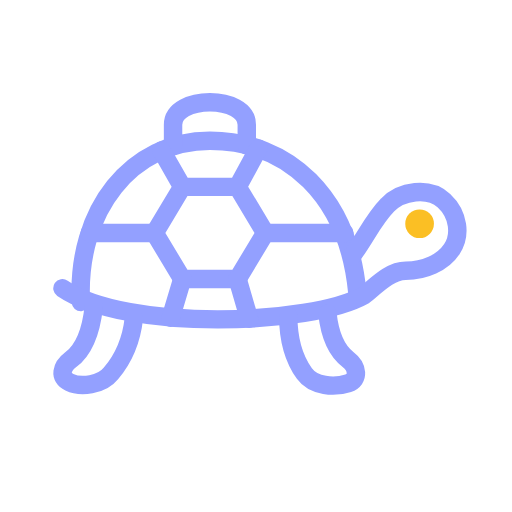
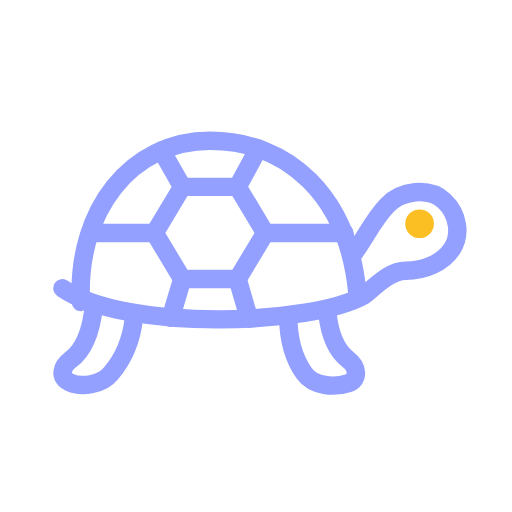
Remove the handle from the top of Kit's shell
The tiny master draws the legs in its place, so Kit still reads as a turtle at 16 px.

Changed region(s): [[0.3125, 0.1562, 0.5, 0.2812]]

diff --git a/scripts/brand/kit.ts b/scripts/brand/kit.ts
@@ -5,7 +5,6 @@
 export const PARTS = {
   dome: "M 12 60 C 11 40 23 25 40 25 C 57 25 70 37 72 58",
   body: "M 70.8 50 C 73.5 46.5 75.5 42 78.5 39 C 81.5 35.8 87.5 35 90.8 38 C 94 41 94.5 45.5 92.5 48.5 C 90.5 51.5 86.5 53.2 82.5 53.2 C 79 53.2 76 56.5 73.5 58.5 C 62 65 22 66.5 8 57",
-  grip: "M 32 26.1 L 32 21.5 C 32 15 48 15 48 21.5 L 48 26",
   plates: "M 29.5 27.1 L 34 35 L 46 35 L 50.5 26.7 M 34 35 L 28 45 L 34 55 L 46 55 L 52 45 L 46 35",
   seams: "M 28 45 L 13.9 45 M 52 45 L 69.2 45 M 34 55 L 31.5 63.4 M 46 55 L 48.5 63.6",
   frontLeg: "M 57 63 C 57 68 58 72 60.5 75.5 C 62.5 78.3 67 78.6 70 77.6 C 72.5 76.8 72 74 70 72.5 C 67.5 70.6 66 67 65.5 62.5",
@@ -24,8 +23,8 @@ const ALL = Object.keys(PARTS) as Part[];
  * is Kit's size in its box: on the tile for the icons, alone for the logo.
  */
 export const MASTERS = {
-  tiny: { stroke: 8.5, eye: 0, scale: 1, parts: ["dome", "body", "grip"] as Part[] },
-  small: { stroke: 5.2, eye: 2.8, scale: 0.88, parts: ["dome", "body", "grip", "frontLeg", "backLeg"] as Part[] },
+  tiny: { stroke: 8.5, eye: 0, scale: 1, parts: ["dome", "body", "frontLeg", "backLeg"] as Part[] },
+  small: { stroke: 5.2, eye: 2.8, scale: 0.88, parts: ["dome", "body", "frontLeg", "backLeg"] as Part[] },
   medium: { stroke: 4.4, eye: 2.6, scale: 0.8, parts: ALL },
   large: { stroke: 3.6, eye: 2.8, scale: 0.9, parts: ALL },
 } as const;

diff --git a/docs/brand/README.md b/docs/brand/README.md
@@ -33,11 +33,10 @@ what it learns, which is how Toolbox teaches.
   used a turtle to teach children math and programming. In _Mindstorms_ (1980)
   he called it an "object-to-think-with."
 
-The drawing has seven parts, each one round-capped stroke, and an eye:
+The drawing has six parts, each one round-capped stroke, and an eye:
 
 - **The dome** and **the body.** The body is one line from the neck, around
   the head, under the shell, and out to the tail.
-- **The grip**, the toolbox handle on top of the shell.
 - **The plates.** The center plate is a hexagon, the shape of a hex nut.
 - **The seams** from the plates to the rim, and **the two legs**, mid-stride.
 - **The eye** is amber, close to the orange eye of a male eastern box turtle.
@@ -64,10 +63,10 @@ person sees.
 
 | Master   | Seen at              | Parts                       | Stroke | Eye  |
 | -------- | -------------------- | --------------------------- | ------ | ---- |
-| `tiny`   | 16 px on a 1x screen | dome, body, grip            | 8.5    | none |
-| `small`  | 17 to 47 px          | adds the legs and the eye   | 5.2    | 2.8  |
-| `medium` | 48 to 95 px          | all seven                   | 4.4    | 2.6  |
-| `large`  | 96 px and up         | all seven                   | 3.6    | 2.8  |
+| `tiny`   | 16 px on a 1x screen | dome, body, legs            | 8.5    | none |
+| `small`  | 17 to 47 px          | adds the eye                | 5.2    | 2.8  |
+| `medium` | 48 to 95 px          | all six                     | 4.4    | 2.6  |
+| `large`  | 96 px and up         | all six                     | 3.6    | 2.8  |
 
 Strokes and eyes are in the mark's 100-unit box. The size a person sees picks
 the master, not the file's pixels: a 512 px launcher icon shows at about
